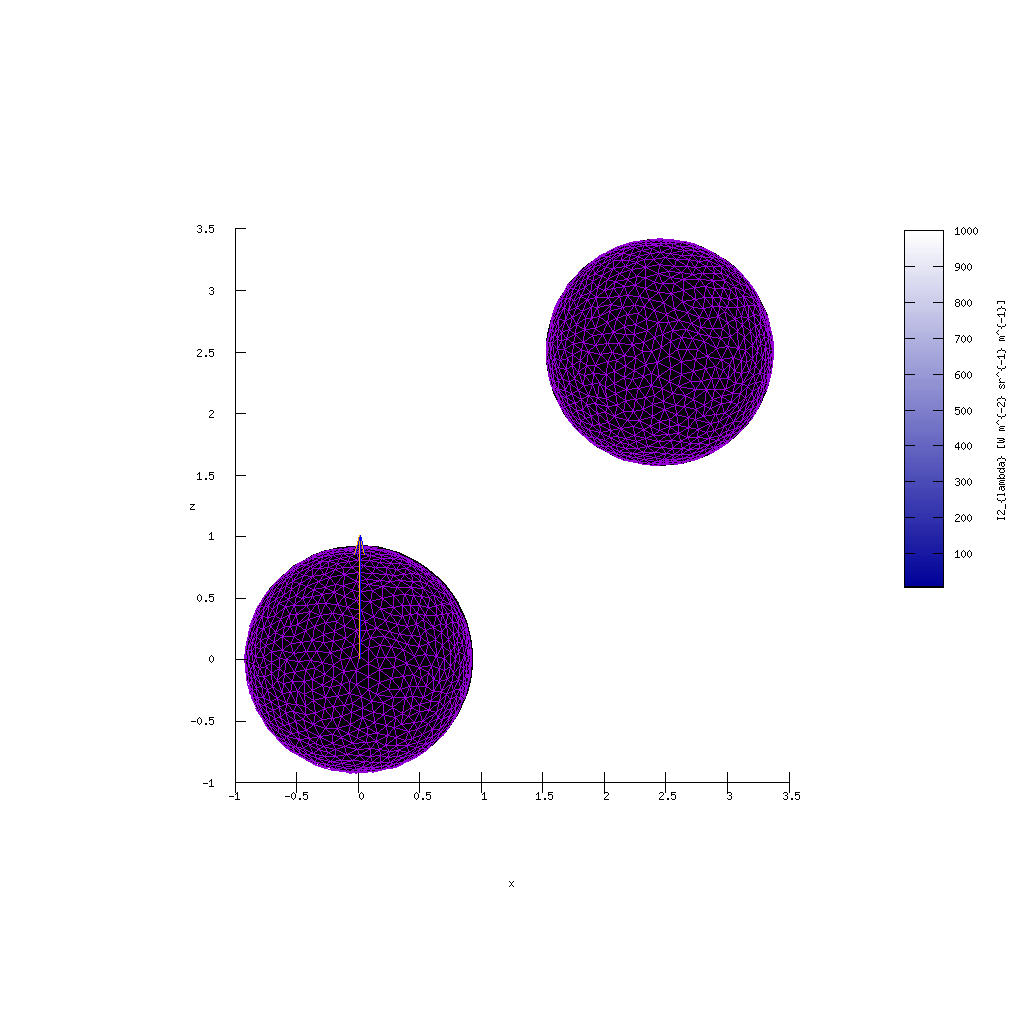
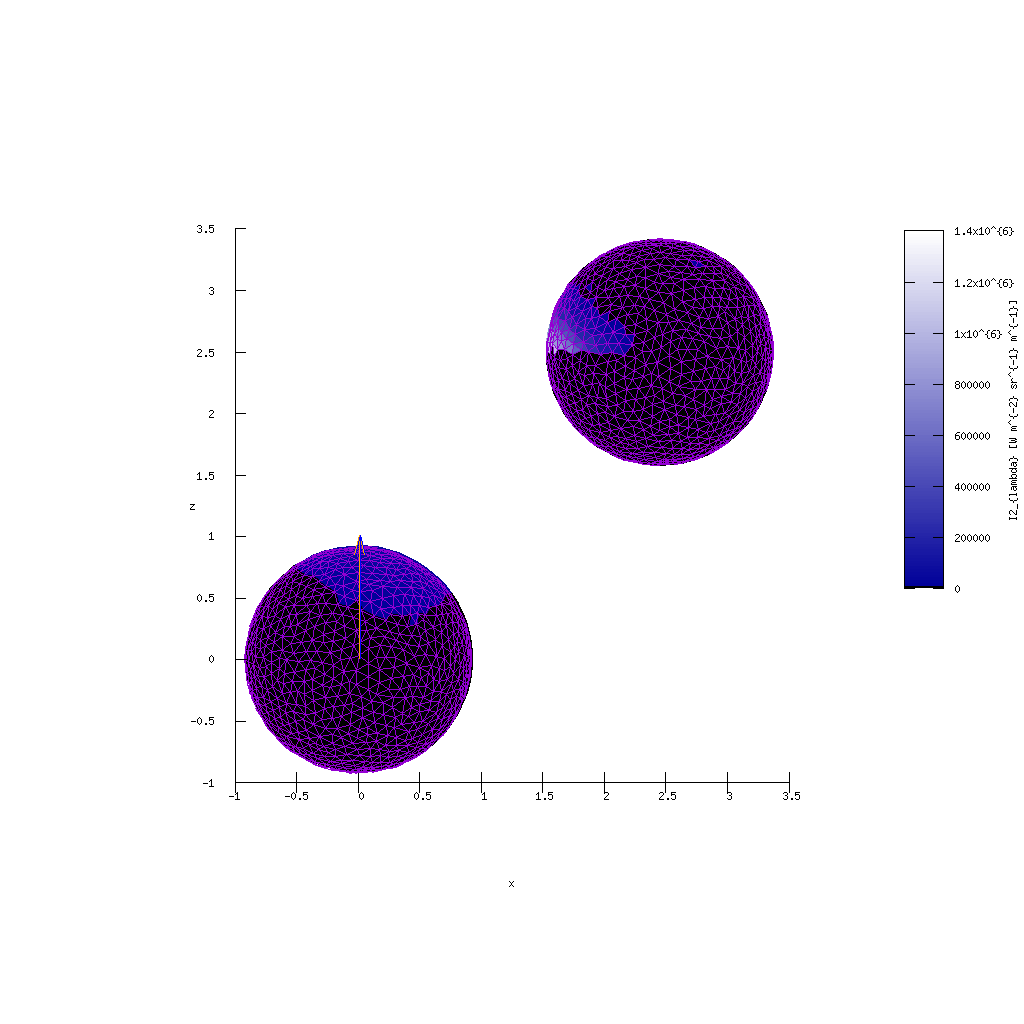
README.md.

diff --git a/README.md b/README.md
@@ -7,6 +7,7 @@ The following physics was already implemented:
 - shadowing (non-convex), eclipses, transits, ...
 - visibility (mutual)
 - scatterring (mutual)
+- simplified thermal contribution
 - Lambert law
 - Lommel law
 - Hapke law
